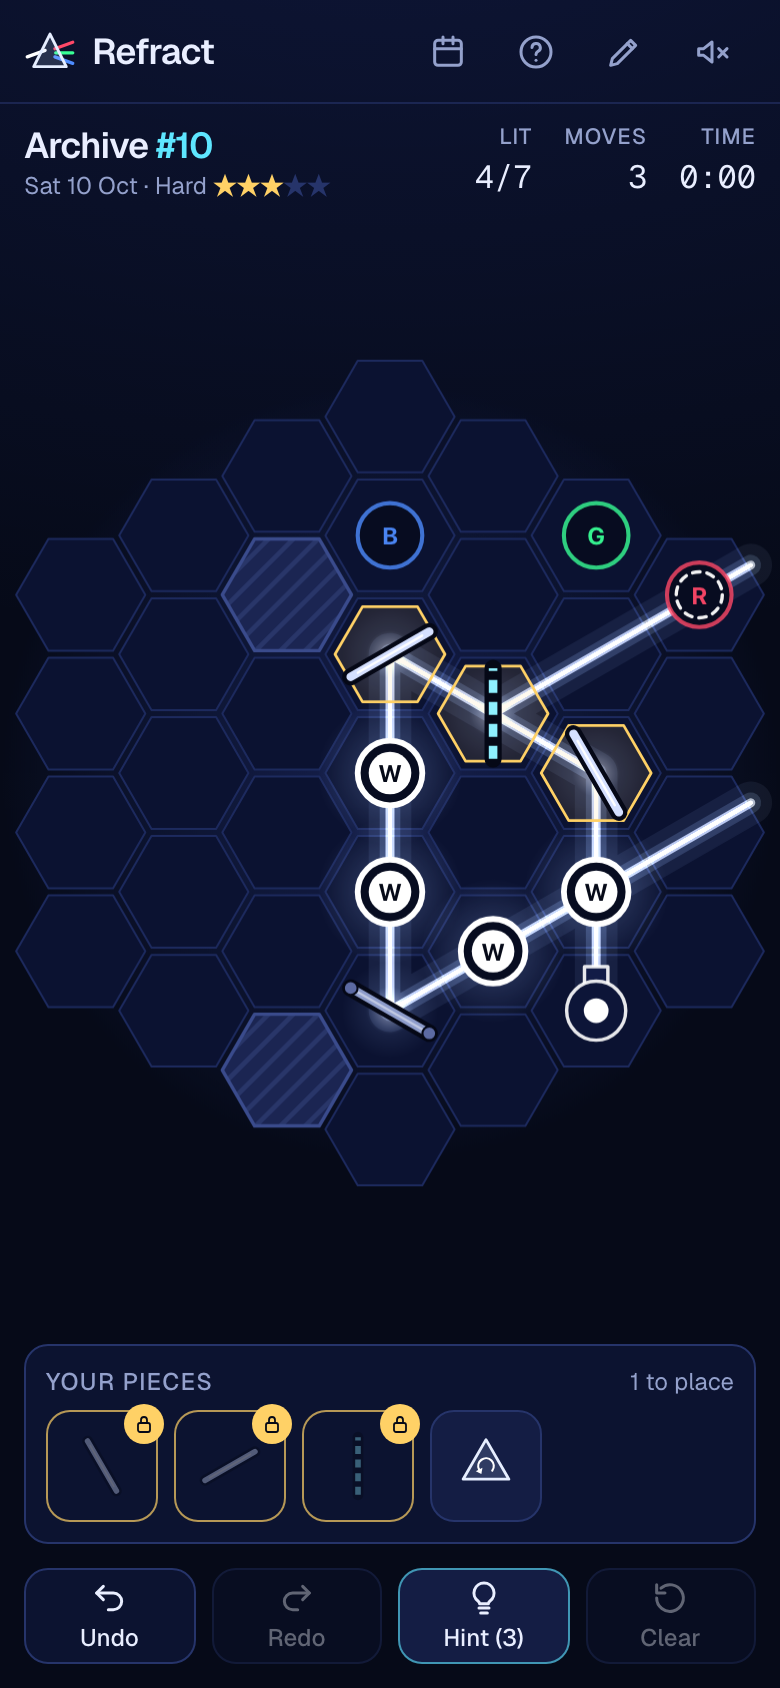
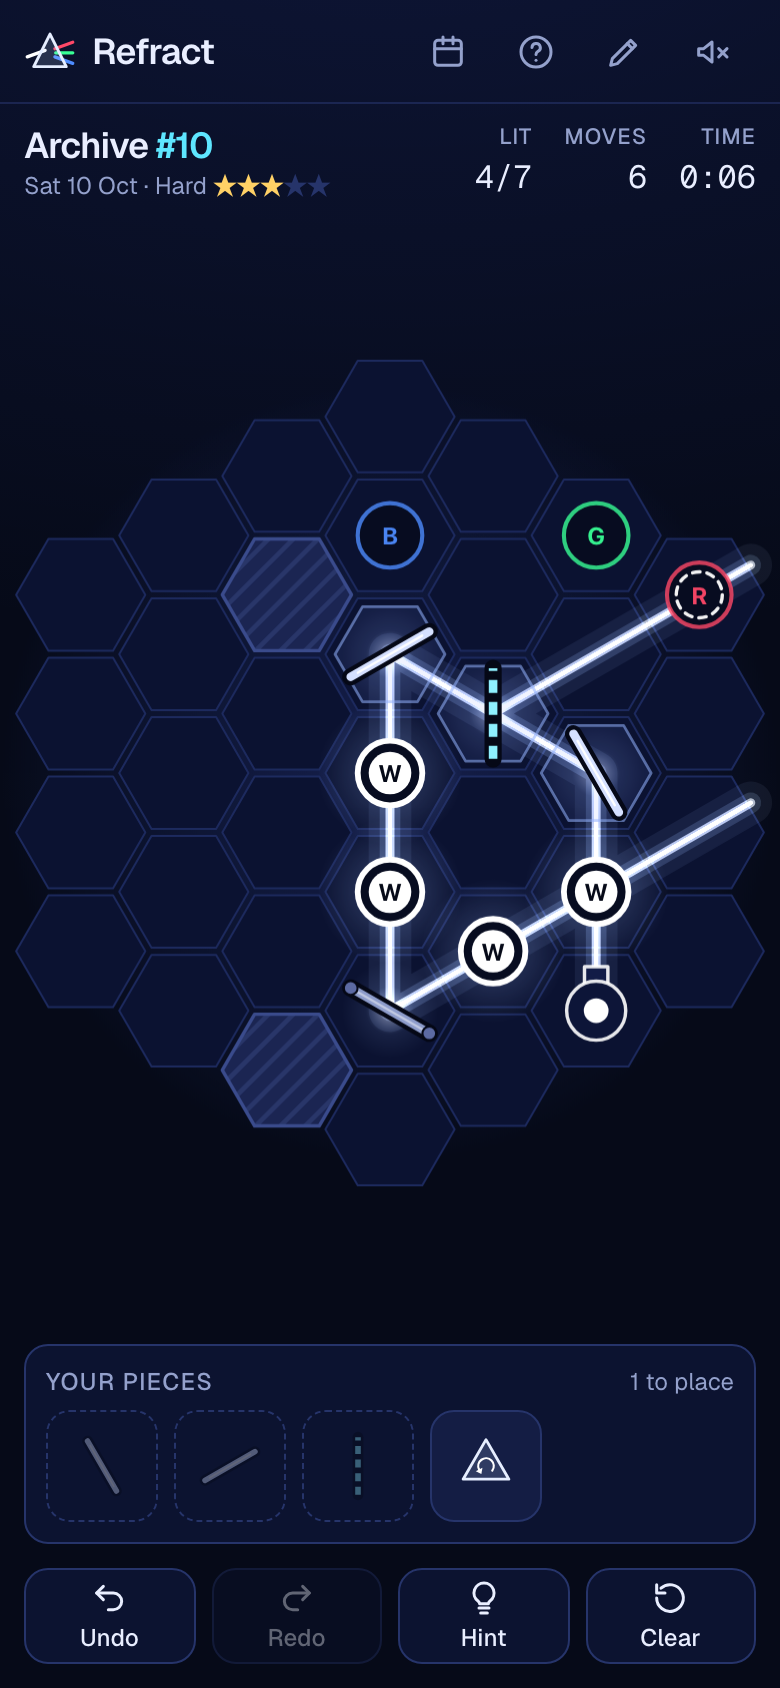
docs: screenshots and demo GIF made from real play
The screenshot script can now play the puzzle on screen with the mouse (drag
from the tray, click to turn), so the moves, clock and share grid in the
pictures come from an actual game rather than hint clicks. The solved expert
board is the hero. The result panel puts its summary on one full-width line.

diff --git a/components/ResultPanel.tsx b/components/ResultPanel.tsx
@@ -72,26 +72,22 @@ export function ResultPanel({ result, shareText, children }: Props) {
       className="rise rounded-xl border border-success/40 bg-surface p-4 shadow-[0_0_40px_-12px_rgba(77,255,166,0.45)]"
     >
       <div className="flex items-start justify-between gap-3">
-        <div className="min-w-0">
-          <h2 className="flex items-center gap-2 text-lg font-semibold text-success">
-            <CheckIcon />
-            Solved
-          </h2>
-          {/* Non-breaking spaces: the line may wrap between the three facts, never inside one. */}
-          <p className="mt-0.5 text-sm text-muted">
-            {result.moves === 1 ? "1\u00a0move" : `${result.moves}\u00a0moves`} · {formatTime(result.timeMs)} ·{" "}
-            {hints.replace(" ", "\u00a0")}
-          </p>
-        </div>
+        <h2 className="flex items-center gap-2 text-lg font-semibold text-success">
+          <CheckIcon />
+          Solved
+        </h2>
         {/* One row of the grid per line, exactly as it is copied: never re-wrapped by the box. */}
         <p
           role="img"
           aria-label="One square per move: how many targets were lit after it"
-          className="shrink-0 whitespace-pre text-right text-sm leading-tight"
+          className="shrink-0 whitespace-pre pt-1 text-right text-sm leading-tight"
         >
           {beatGrid(result.timeline)}
         </p>
       </div>
+      <p className="mt-0.5 text-sm text-muted">
+        {result.moves === 1 ? "1 move" : `${result.moves} moves`} · {formatTime(result.timeMs)} · {hints}
+      </p>
       <button
         type="button"
         onClick={share}
